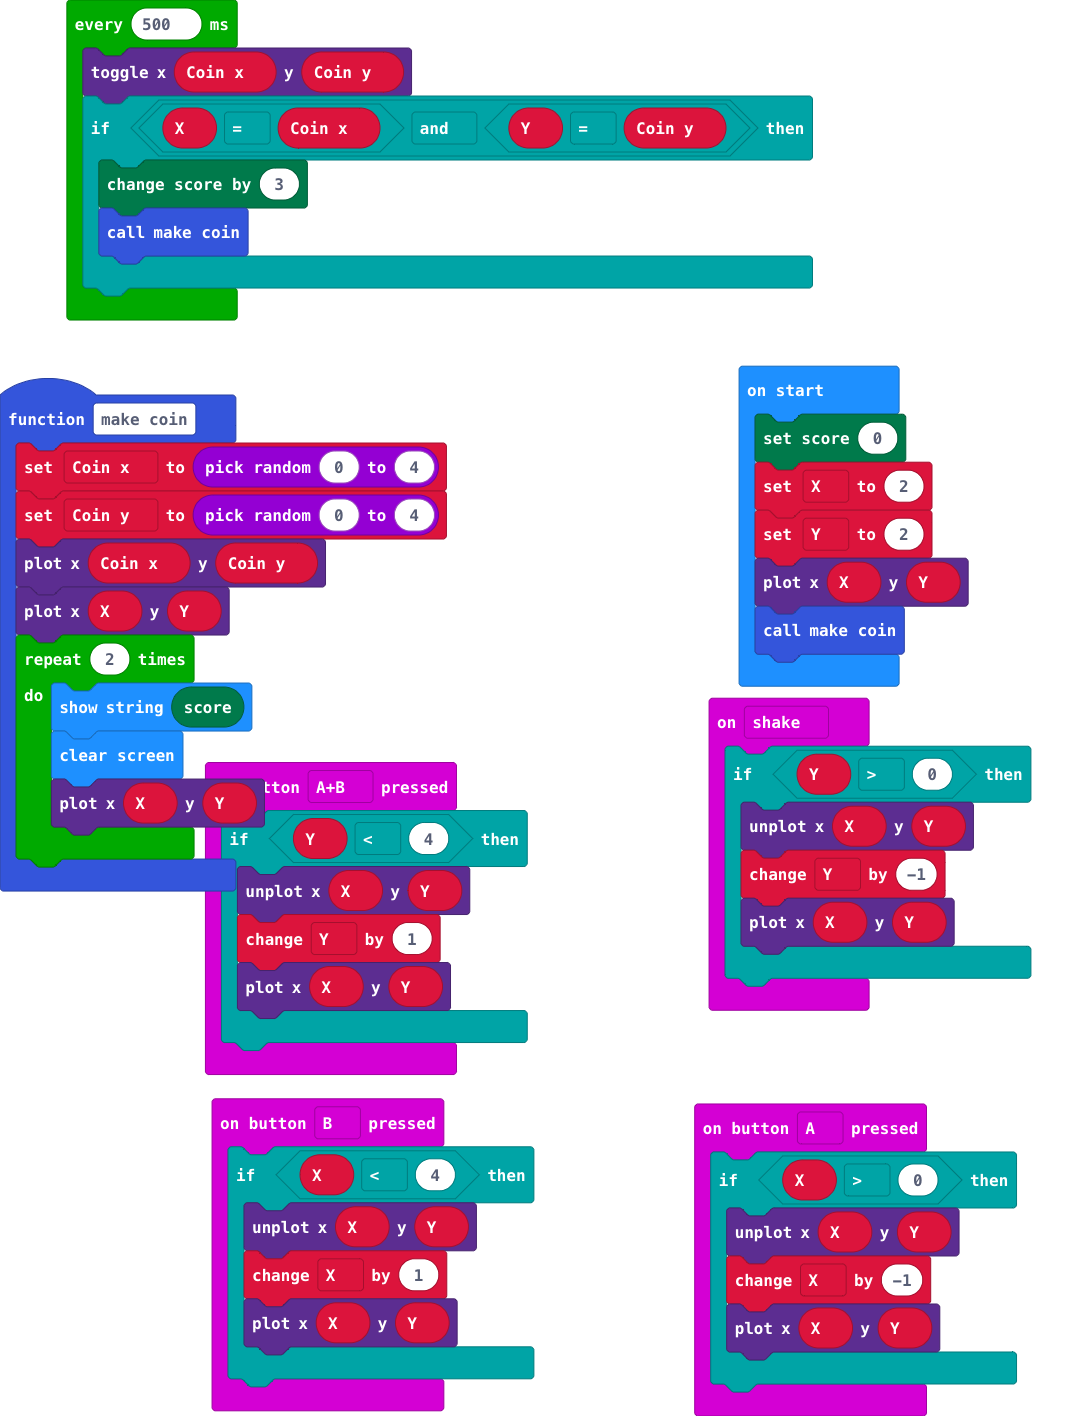
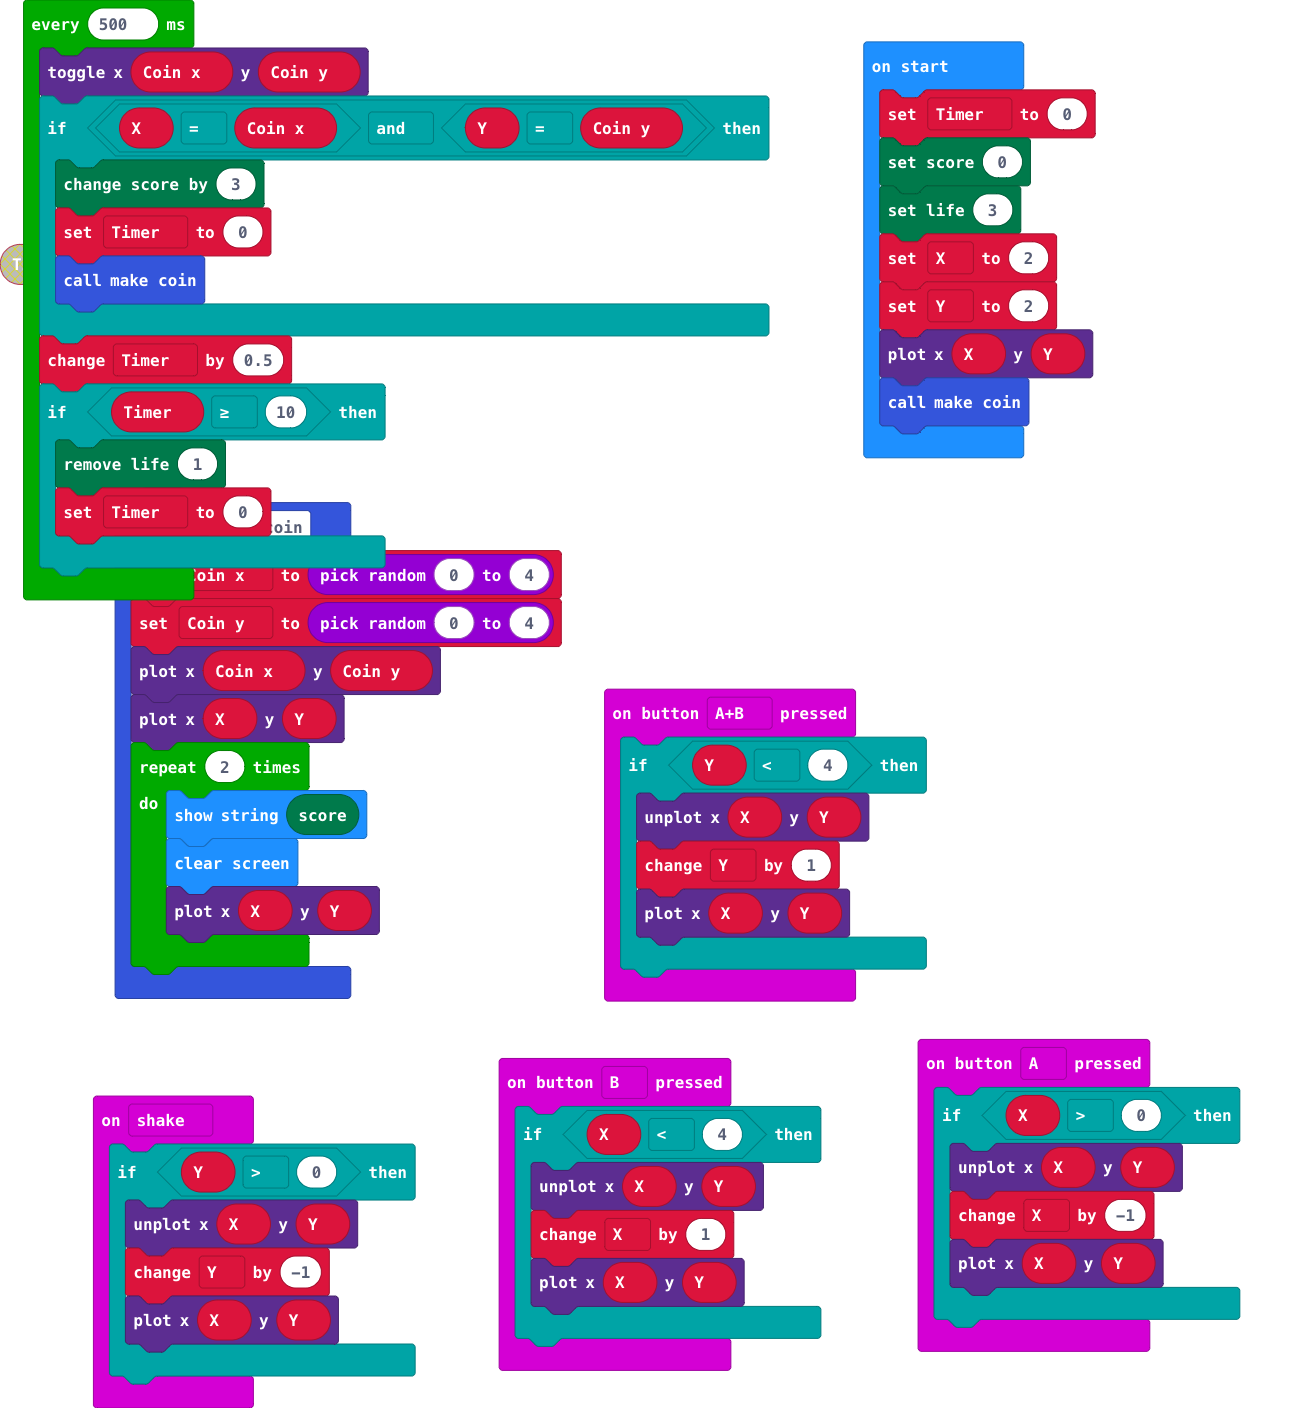
added lives

diff --git a/main.ts b/main.ts
@@ -41,7 +41,9 @@ let Coin_y = 0
 let Coin_x = 0
 let Y = 0
 let X = 0
+let Timer = 0
 game.setScore(0)
+game.setLife(3)
 X = 2
 Y = 2
 led.plot(X, Y)
@@ -50,6 +52,12 @@ loops.everyInterval(500, function () {
     led.toggle(Coin_x, Coin_y)
     if (X == Coin_x && Y == Coin_y) {
         game.addScore(3)
+        Timer = 0
         make_coin()
+    }
+    Timer += 0.5
+    if (Timer >= 10) {
+        game.removeLife(1)
+        Timer = 0
     }
 })
